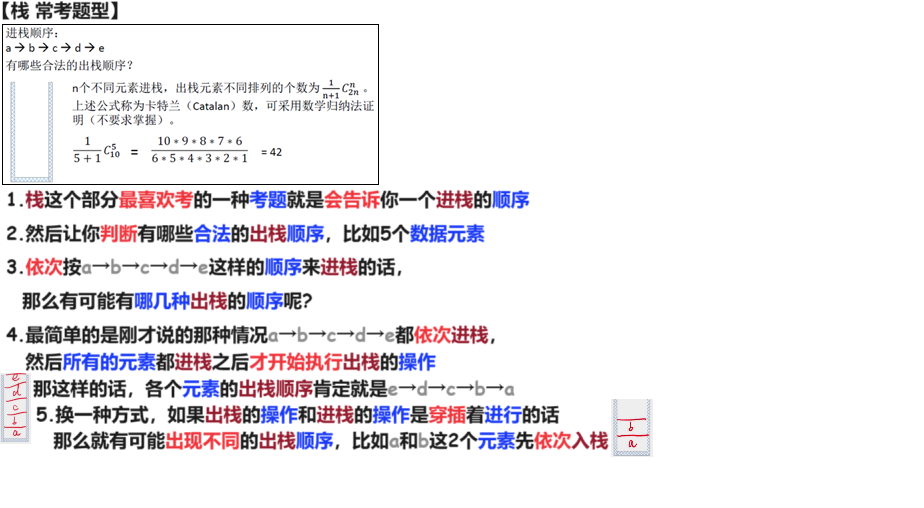
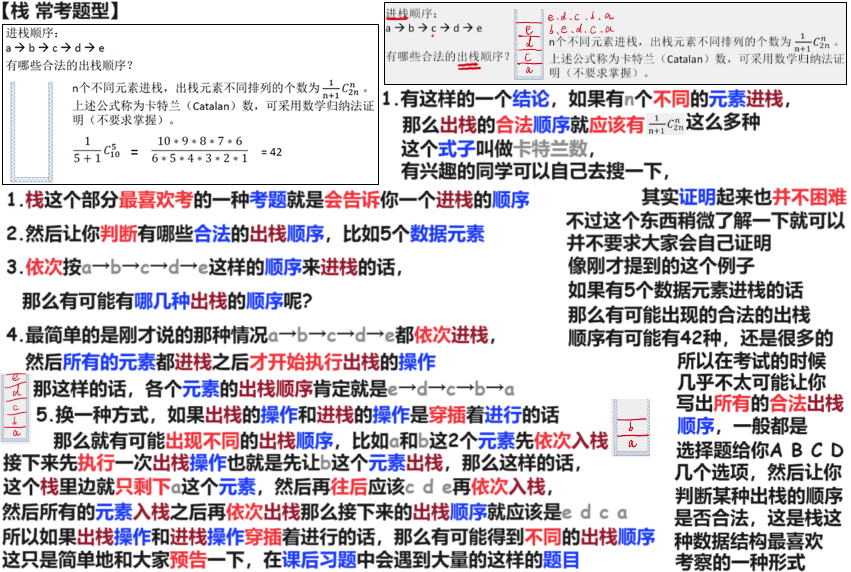
240411

diff --git a/01 初试/02 DS/02 24 王道 基础/03 栈 队列 数组/01 栈/01 栈 Stack 基本概念 240411/02 Doc.md b/01 初试/02 DS/02 24 王道 基础/03 栈 队列 数组/01 栈/01 栈 Stack 基本概念 240411/02 Doc.md
@@ -32,3 +32,9 @@
 
 # 05 栈 常考题型
 
+<img src="https://cvp.oss-cn-shanghai.aliyuncs.com/picgo/202404110726185.png" alt="image-20240411072649052" style="zoom:50%;" />
+
+
+
+# 06 知识回顾与重要考点
+
